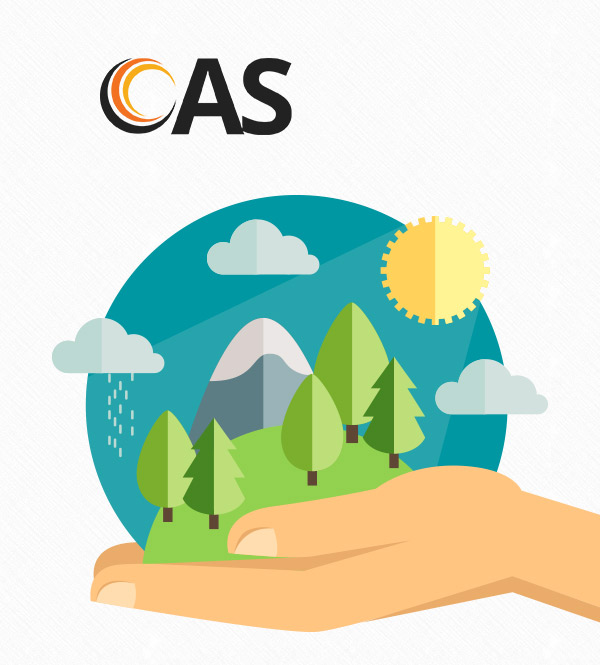
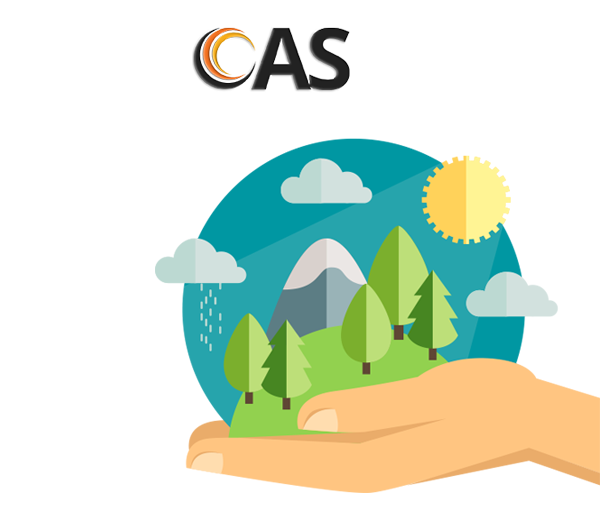
login fixed

diff --git a/public/stylesheets/login.css b/public/stylesheets/login.css
@@ -1,3 +1,15 @@
 .log-right{
     background-color: #000;
+    height: 100%;
+    padding: 0;
+}
+
+.log-left{
+   background: url('../images/crossword.png');
+    height: 100%;
+    padding: 0;
+}
+
+.log-left img{
+    float: right;
 }

diff --git a/public/index.php b/public/index.php
@@ -7,10 +7,10 @@
     <link href="stylesheets/bootstrap.css" type="text/css" rel="stylesheet"/>
 </head>
 <bod>
-    <div class="container-fluid">
-        <div class="row">
-            <div class="col-lg-12">
-                <div class="col-lg-6">
+    <div class="">
+        <div>
+            <div class="container-fluid">
+                <div class="col-lg-6 log-left">
                     <div><img src="images/login_left.png"/></div>
                 </div>
                 <div class="col-lg-6 log-right">

diff --git a/public/index1.php b/public/index1.php
@@ -64,7 +64,7 @@
                     include '../app/views/home/activity.php';
                     ?>
                 </div>
-                <div role="tabpanel" class="tab-pane fade in active" id="advicerboard">
+                <div role="tabpanel" class="tab-pane fade in" id="advicerboard">
                         <?php
                             include '../app/views/home/advicerboard.php';
                      ?>

diff --git a/app/views/home/login.php b/app/views/home/login.php
@@ -1,6 +1,6 @@
 <div>
-    <div class="row">
-        <div class="col-sm-6 login_div">
+    <div>
+        <div class="login_div">
             <h3 class="login_h text-center">WELCOME TO <span class="span_cas">CAS</span></h3>
             <h2 class="login_h text-center">USER LOGIN</h2>
             <form class="login-form" action="../app/models/Auth.php" id="login_form" method="post" role="form">
